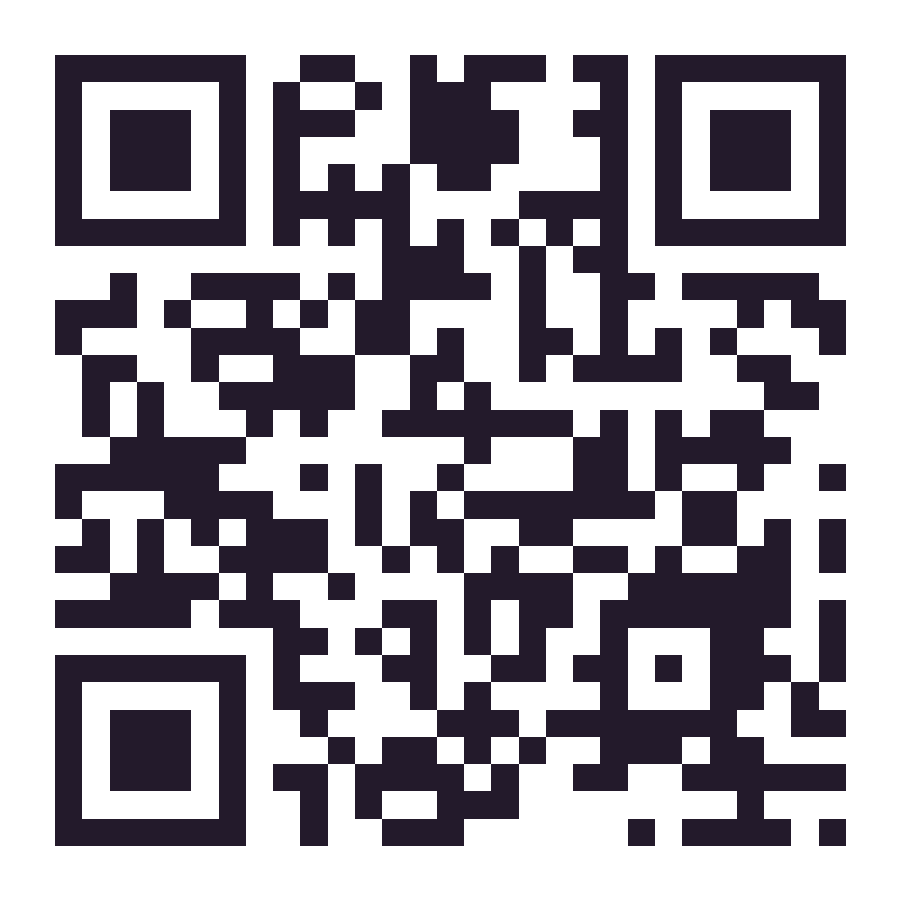
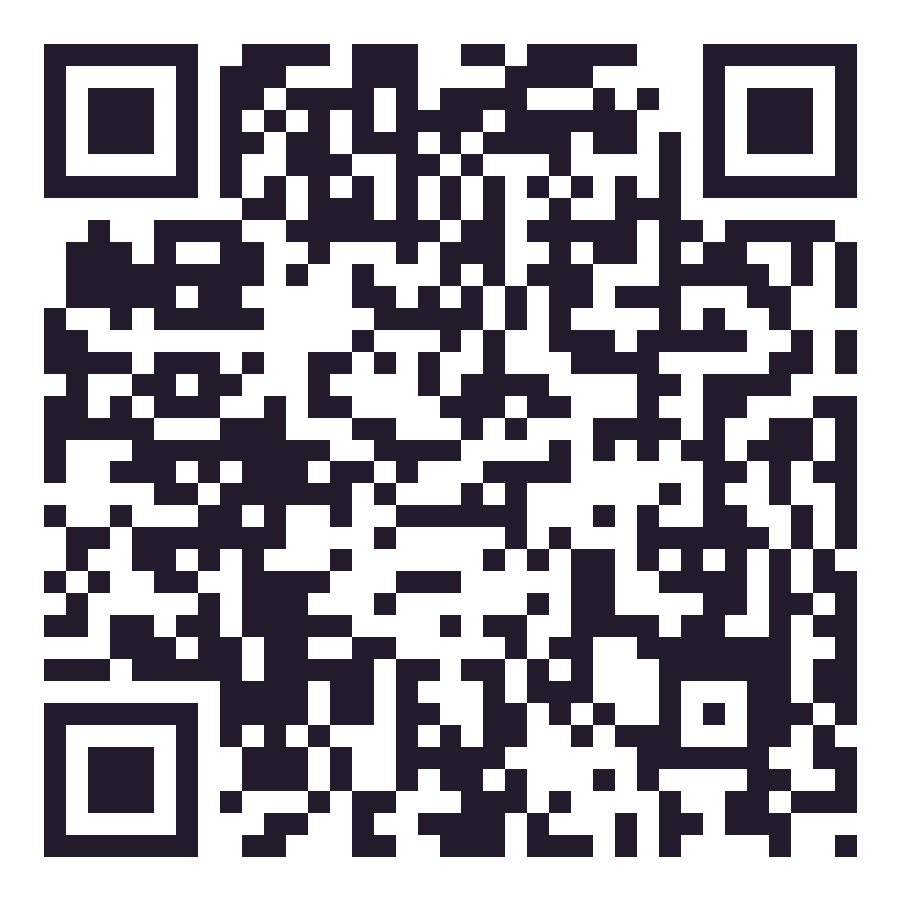
QR apuntando a GitHub Pages; README actualizado

diff --git a/README.md b/README.md
@@ -39,15 +39,23 @@ Todo el contenido editable está en `index.html` (textos, cita, firma) y en `scr
 
 ## QR para imprimir
 
-El archivo `qr/qr-ainoha.png` apunta a `http://192.168.1.132:5173/` (red local). Para imprimirlo en un folio y que se escanee desde el móvil:
+El archivo `qr/qr-ainoha.png` apunta a la web publicada: **https://haplee.github.io/regalo-ainoha/**
 
-1. Imprime `qr/qr-ainoha.png` a tamaño completo.
-2. El móvil debe estar en la **misma red Wi-Fi** que el equipo.
-3. Asegúrate de que el servidor está corriendo con `--bind 0.0.0.0`.
-4. Si el móvil no conecta, permite el puerto `5173` en el firewall de Windows (o ejecuta con permisos de administrador:
-   `New-NetFirewallRule -DisplayName "regalo-ainoha 5173" -Direction Inbound -Protocol TCP -LocalPort 5173 -Action Allow`).
+Para imprimirlo en un folio y que se escanee desde el móvil:
 
-> 💡 Para que el QR funcione **desde cualquier lugar** (no solo la red local), despliega la web en un hosting estático (GitHub Pages, Netlify o Vercel) y regenera el QR apuntando a la URL pública.
+1. Imprime `qr/qr-ainoha.png` a tamaño completo (deja el folio al menos a mitad de página).
+2. El QR funciona desde cualquier sitio, no necesita red local ni servidor.
+3. Escanea con la cámara del móvil y se abrirá la página directamente.
+
+## Desplegar en GitHub Pages
+
+El repo ya está en GitHub: https://github.com/Haplee/regalo-ainoha
+
+La web vive en https://haplee.github.io/regalo-ainoha/ (Pages activado desde `main`, raíz del repo). Para actualizarla tras un cambio:
+
+```bash
+git add . && git commit -m "mensaje" && git push
+```
 
 ## Regenerar el QR
 
